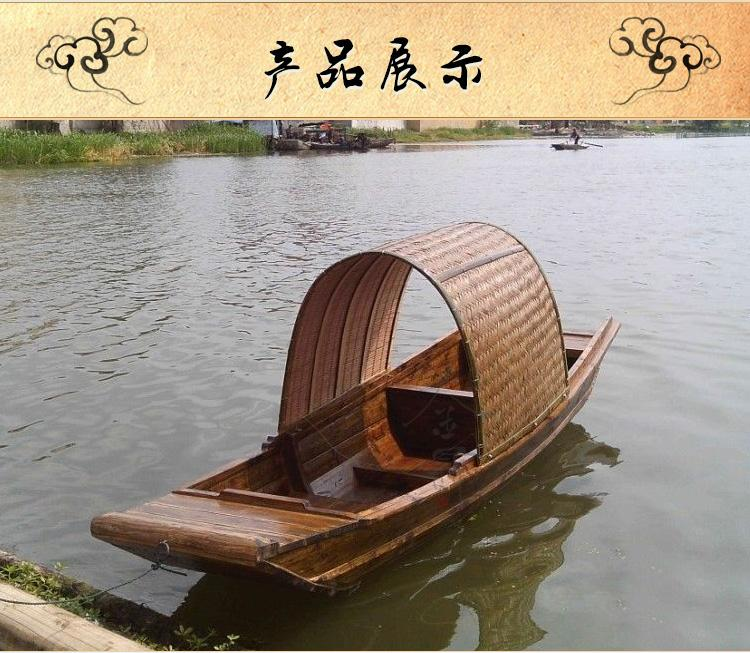
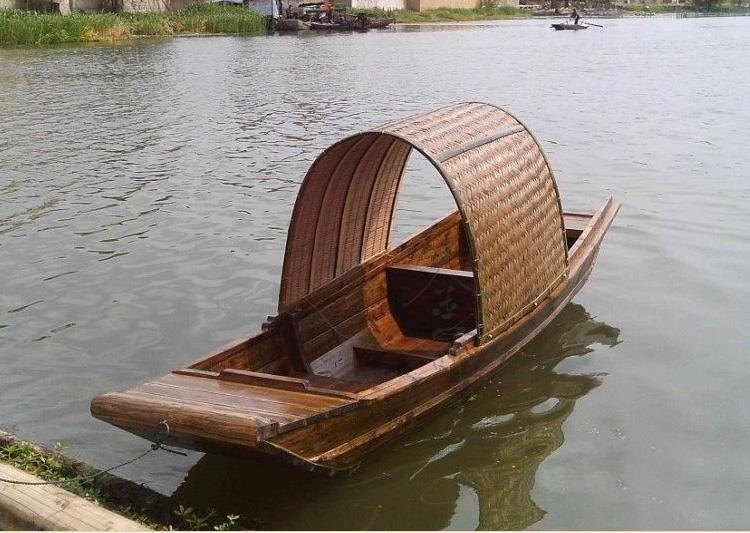
photos 桳/01.jpg：裁掉顶部「产品展示」横幅；图片缓存版本 20261127b → 20261127c

diff --git a/web/public/index.html b/web/public/index.html
@@ -1,4 +1,4 @@
-<!doctype html>
+<!doctype html>
 <html lang="zh-CN">
 <head>
 <meta charset="utf-8">
@@ -215,7 +215,7 @@ const ss=(d.sections||[]).find(s=>s.label==='所属卷'); const _s0=(d.sections|
   const LVN={1:'一级字根',2:'二级字根',3:'谐声字'};const _hasFam=(d.sections||[]).some(x=>x&&x.key==='zizu'&&(x.groups||[]).length);
   const lvlTag=(()=>{const s=d.grade||(d.rootLevel?({1:'一级字根',2:'二级字根',3:'谐声字'}[d.rootLevel]||''):(d.level===3&&_hasFam?'三级字根':(LVN[d.level]||'')));return s?`<span class="tag">${s}</span>`:'';})();
   const b=(Array.isArray(d.bus)?d.bus[0]:(d.bus||{}))||{};
-  const photoBlock=(()=>{let own=d.photos||(window.PHOTO&&window.PHOTO[d.char])||[];if(!own.length)return '';const cap=d.captions||(window.CAPS&&window.CAPS[d.char])||[];own=own.map((o,i)=>{const ob=(o&&typeof o==='object')?o:{file:o};let f=String(ob.file||'');if(f.startsWith(d.char+'/'))f=f.slice(d.char.length+1);const c=ob.caption||cap[i]||'';return '<figure><img src="/glyphs/photos/'+encodeURIComponent(d.char)+'/'+encodeURIComponent(f)+'?v=20261127b"><figcaption>'+esc(c||'')+'</figcaption></figure>';});return '<div class="sec"><h3>插图</h3><div class="pscroll'+(own.length===1?' solo':'')+'">'+own.join('')+'</div></div>';})();
+  const photoBlock=(()=>{let own=d.photos||(window.PHOTO&&window.PHOTO[d.char])||[];if(!own.length)return '';const cap=d.captions||(window.CAPS&&window.CAPS[d.char])||[];own=own.map((o,i)=>{const ob=(o&&typeof o==='object')?o:{file:o};let f=String(ob.file||'');if(f.startsWith(d.char+'/'))f=f.slice(d.char.length+1);const c=ob.caption||cap[i]||'';return '<figure><img src="/glyphs/photos/'+encodeURIComponent(d.char)+'/'+encodeURIComponent(f)+'?v=20261127c"><figcaption>'+esc(c||'')+'</figcaption></figure>';});return '<div class="sec"><h3>插图</h3><div class="pscroll'+(own.length===1?' solo':'')+'">'+own.join('')+'</div></div>';})();
 
   return `${vhtml}<div class="card"><div class="chead"><div class="ch">${d.chapterCard?('<a href="javascript:void(0)" class="chp" onclick="goCard(\''+d.chapterCard+'\')">第'+(d.chapter||'')+'章 '+esc(d.chapterName||'')+'</a>'):sm(d.head||d.cname||ch)}${(d.bus&&d.bus[0]&&(d.bus[0].name||'').indexOf('卷')===0)?(' · '+sm(d.head||d.cname||ch)):''}${(d.simp&&!d.cname&&!(d.head||'').includes('（'))?`（${esc(d.simp)}）`:''}</div><div class="py">${esc(d.pinyin||'')}</div><div class="bu">${lvlTag}${d.chapterCard?'':('第'+String(b.num||'?')+'部 '+esc(b.name||''))}</div></div>${strip}${secs}${(opt&&opt.noPhoto)?'':photoBlock}${rootLink}${d.noRoot?'':parentBlock}${ss?'<div class="sec"><h3>所属卷</h3>'+(LKR(ss)||(ss.text?'<p>'+esc(ss.text)+'</p>':''))+'</div>':''}</div>`;
 }

diff --git a/web/public/test.html b/web/public/test.html
@@ -213,7 +213,7 @@ const ss=(d.sections||[]).find(s=>s.label==='所属卷'); const _s0=(d.sections|
   const LVN={1:'一级字根',2:'二级字根',3:'谐声字'};const _hasFam=(d.sections||[]).some(x=>x&&x.key==='zizu'&&(x.groups||[]).length);
   const lvlTag=(()=>{const s=d.grade||(d.rootLevel?({1:'一级字根',2:'二级字根',3:'谐声字'}[d.rootLevel]||''):(d.level===3&&_hasFam?'三级字根':(LVN[d.level]||'')));return s?`<span class="tag">${s}</span>`:'';})();
   const b=(Array.isArray(d.bus)?d.bus[0]:(d.bus||{}))||{};
-  const photoBlock=(()=>{let own=d.photos||(window.PHOTO&&window.PHOTO[d.char])||[];if(!own.length)return '';const cap=d.captions||(window.CAPS&&window.CAPS[d.char])||[];own=own.map((o,i)=>{const ob=(o&&typeof o==='object')?o:{file:o};let f=String(ob.file||'');if(f.startsWith(d.char+'/'))f=f.slice(d.char.length+1);const c=ob.caption||cap[i]||'';return '<figure><img src="/glyphs/photos/'+encodeURIComponent(d.char)+'/'+encodeURIComponent(f)+'?v=20261127b"><figcaption>'+esc(c||'')+'</figcaption></figure>';});return '<div class="sec"><h3>插图</h3><div class="pscroll'+(own.length===1?' solo':'')+'">'+own.join('')+'</div></div>';})();
+  const photoBlock=(()=>{let own=d.photos||(window.PHOTO&&window.PHOTO[d.char])||[];if(!own.length)return '';const cap=d.captions||(window.CAPS&&window.CAPS[d.char])||[];own=own.map((o,i)=>{const ob=(o&&typeof o==='object')?o:{file:o};let f=String(ob.file||'');if(f.startsWith(d.char+'/'))f=f.slice(d.char.length+1);const c=ob.caption||cap[i]||'';return '<figure><img src="/glyphs/photos/'+encodeURIComponent(d.char)+'/'+encodeURIComponent(f)+'?v=20261127c"><figcaption>'+esc(c||'')+'</figcaption></figure>';});return '<div class="sec"><h3>插图</h3><div class="pscroll'+(own.length===1?' solo':'')+'">'+own.join('')+'</div></div>';})();
 
   return `${vhtml}<div class="card"><div class="chead"><div class="ch">${d.chapterCard?('<a href="javascript:void(0)" class="chp" onclick="goCard(\''+d.chapterCard+'\')">第'+(d.chapter||'')+'章 '+esc(d.chapterName||'')+'</a>'):sm(d.head||d.cname||ch)}${(d.bus&&d.bus[0]&&(d.bus[0].name||'').indexOf('卷')===0)?(' · '+sm(d.head||d.cname||ch)):''}${(d.simp&&!d.cname&&!(d.head||'').includes('（'))?`（${esc(d.simp)}）`:''}</div><div class="py">${esc(d.pinyin||'')}</div><div class="bu">${lvlTag}${d.chapterCard?'':('第'+String(b.num||'?')+'部 '+esc(b.name||''))}</div></div>${strip}${secs}${(opt&&opt.noPhoto)?'':photoBlock}${rootLink}${d.noRoot?'':parentBlock}${ss?'<div class="sec"><h3>所属卷</h3>'+(LKR(ss)||(ss.text?'<p>'+esc(ss.text)+'</p>':''))+'</div>':''}</div>`;
 }

diff --git a/web/public/app.html b/web/public/app.html
@@ -211,7 +211,7 @@ const ss=(d.sections||[]).find(s=>s.label==='所属卷'); const _s0=(d.sections|
   const LVN={1:'一级字根',2:'二级字根',3:'谐声字'};const _hasFam=(d.sections||[]).some(x=>x&&x.key==='zizu'&&(x.groups||[]).length);
   const lvlTag=(()=>{const s=d.grade||(d.rootLevel?({1:'一级字根',2:'二级字根',3:'谐声字'}[d.rootLevel]||''):(d.level===3&&_hasFam?'三级字根':(LVN[d.level]||'')));return s?`<span class="tag">${s}</span>`:'';})();
   const b=(d.bus||[])[0]||{};
-  const photoBlock=(()=>{let own=d.photos||(window.PHOTO&&window.PHOTO[d.char])||[];if(!own.length)return '';const cap=d.captions||(window.CAPS&&window.CAPS[d.char])||[];own=own.map((o,i)=>{const ob=(o&&typeof o==='object')?o:{file:o};let f=String(ob.file||'');if(f.startsWith(d.char+'/'))f=f.slice(d.char.length+1);const c=ob.caption||cap[i]||'';return '<figure><img src="/glyphs/photos/'+encodeURIComponent(d.char)+'/'+encodeURIComponent(f)+'?v=20261127b"><figcaption>'+esc(c||'')+'</figcaption></figure>';});return '<div class="sec"><h3>插图</h3><div class="pscroll'+(own.length===1?' solo':'')+'">'+own.join('')+'</div></div>';})();
+  const photoBlock=(()=>{let own=d.photos||(window.PHOTO&&window.PHOTO[d.char])||[];if(!own.length)return '';const cap=d.captions||(window.CAPS&&window.CAPS[d.char])||[];own=own.map((o,i)=>{const ob=(o&&typeof o==='object')?o:{file:o};let f=String(ob.file||'');if(f.startsWith(d.char+'/'))f=f.slice(d.char.length+1);const c=ob.caption||cap[i]||'';return '<figure><img src="/glyphs/photos/'+encodeURIComponent(d.char)+'/'+encodeURIComponent(f)+'?v=20261127c"><figcaption>'+esc(c||'')+'</figcaption></figure>';});return '<div class="sec"><h3>插图</h3><div class="pscroll'+(own.length===1?' solo':'')+'">'+own.join('')+'</div></div>';})();
 
   return `${vhtml}<div class="card"><div class="chead"><div class="ch">${d.chapterCard?('<a href="javascript:void(0)" class="chp" onclick="goCard(\''+d.chapterCard+'\')">第'+(d.chapter||'')+'章 '+esc(d.chapterName||'')+'</a>'):sm(d.head||d.cname||ch)}${(d.bus&&d.bus[0]&&(d.bus[0].name||'').indexOf('卷')===0)?(' · '+sm(d.head||d.cname||ch)):''}${(d.simp&&!d.cname&&!(d.head||'').includes('（'))?`（${esc(d.simp)}）`:''}</div><div class="py">${esc(d.pinyin||'')}</div><div class="bu">${lvlTag}${d.chapterCard?'':('第'+String(b.num||'?')+'部 '+esc(b.name||''))}</div></div>${strip}${secs}${(opt&&opt.noPhoto)?'':photoBlock}${rootLink}${d.noRoot?'':parentBlock}${ss?'<div class="sec"><h3>所属卷</h3>'+(LKR(ss)||(ss.text?'<p>'+esc(ss.text)+'</p>':''))+'</div>':''}</div>`;
 }
